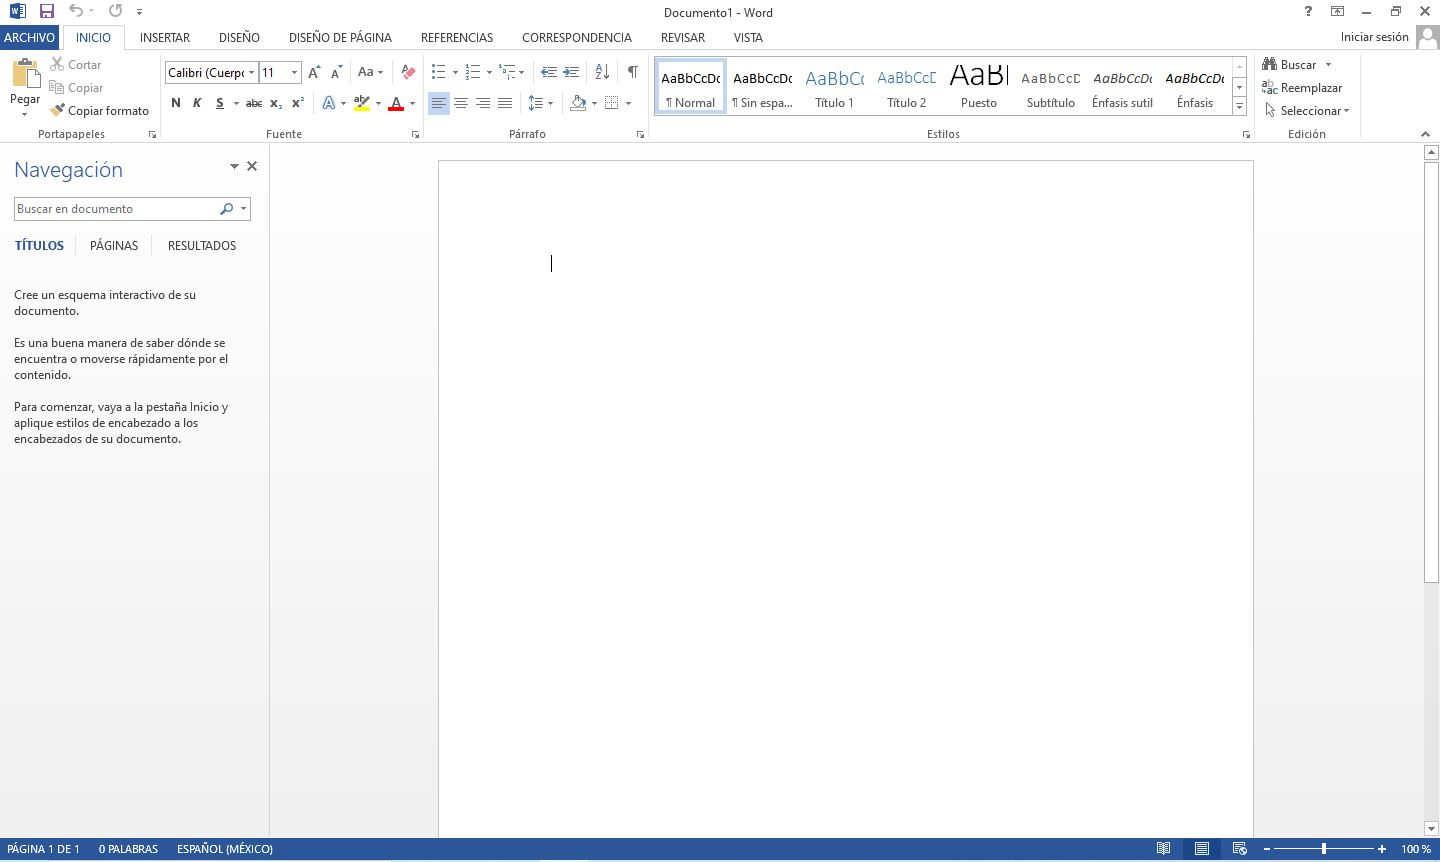
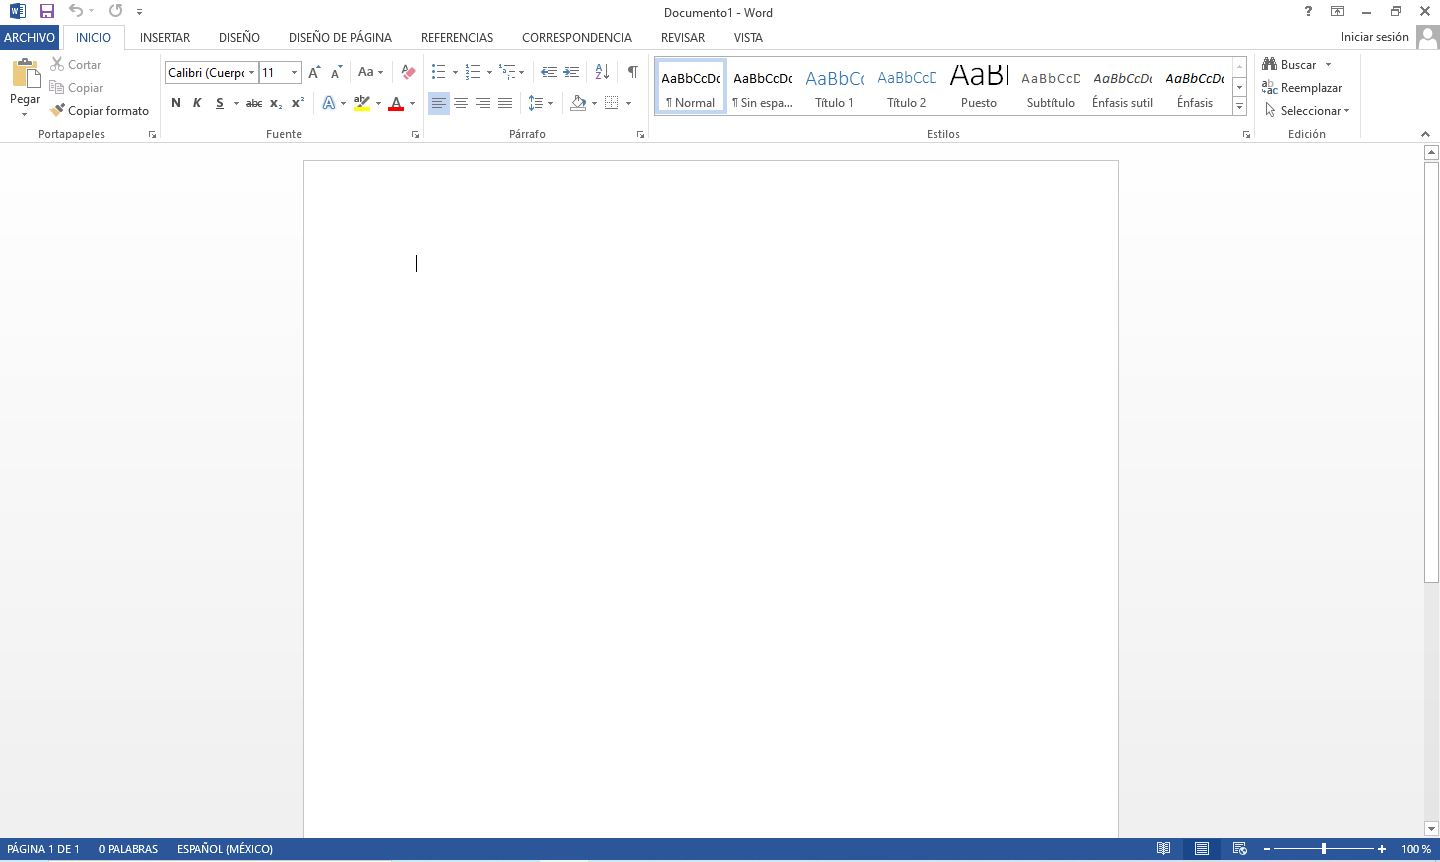
change img

diff --git a/Semanas/S1.html b/Semanas/S1.html
@@ -91,7 +91,7 @@
         <h2 class="number-title"> La ventana de Microsoft Word</h2>  
 
         <div class="flexbox">
-            <img src="./Imagenes/S1/VentanaMSWord.JPG" alt="Ventana_Word", width="80%" height="auto">
+            <img src="../Imagenes/S1/VentanaMSWord.JPG" alt="Ventana_Word", width="100%" height="auto">
             </div>
         
     <p> En el centro de la parte superior encontramos, la <b>barra del título</b>. En ella aparece el nombre del
